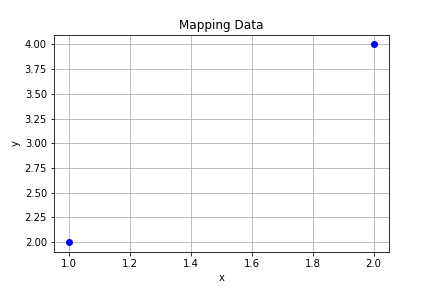
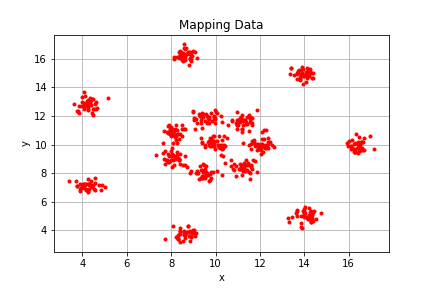
Second

diff --git a/SOM.py b/SOM.py
@@ -6,21 +6,116 @@ Created on Sun Apr 14 13:43:10 2019
 """
 
 import pandas as pd
-import matplotlib
 import matplotlib.pyplot as plt
 import numpy as np
+import math
+import random
 
-data = pd.read_csv("Dataset.csv", header=None)
+df = pd.read_csv("Dataset.csv", header=None)
+data = []
 
-# Data for plotting
-data1 = [1.2, 2.2 , 3.1, 3.3, 4.2]
+def getRandom(min, max):
+    rand = random.uniform(0, 1)
+    return (rand * (max-min)) + min
 
+for i in range(len(df)):
+    data.append({'x' : df[0][i], 'y': df[1][i], 'color': "red"})
+
+
+#Eucledian distance
+def eucledian(x, y):
+    return math.sqrt((x['x']-y['x'])**2 + (x['y']-y['y'])**2)
+
+#Learningrate
+lr = 0.1
+tLr = 2
+
+#neighborhood
+sigma = 2
+tSigma = 2
+
+#Neuron
+min_data_x = min(df[0])
+min_data_y = min(df[1])
+max_data_x = max(df[0])
+max_data_y = max(df[1])
+neuron = [
+    {'x': getRandom(min_data_x, max_data_x), 'y': getRandom(min_data_y, max_data_y), 'color': 'blue', 'status': 'fixed'}, 
+    {'x': getRandom(min_data_x, max_data_x), 'y': getRandom(min_data_y, max_data_y), 'color': 'black', 'status': 'fixed'},
+    {'x': getRandom(min_data_x, max_data_x), 'y': getRandom(min_data_y, max_data_y), 'color': 'green', 'status': 'fixed'},
+    {'x': getRandom(min_data_x, max_data_x), 'y': getRandom(min_data_y, max_data_y), 'color': 'yellow', 'status': 'fixed'},
+    {'x': getRandom(min_data_x, max_data_x), 'y': getRandom(min_data_y, max_data_y), 'color': 'gray', 'status': 'fixed'},
+    {'x': getRandom(min_data_x, max_data_x), 'y': getRandom(min_data_y, max_data_y), 'color': 'magenta', 'status': 'fixed'}       
+]
+
+# Plotdata awal
 fig, ax = plt.subplots()
-ax.plot([1,2],[2,4],"ro", color="blue")
+for i in data:
+    ax.plot(i['x'], i['y'], ".", color=i['color'])
+for i in neuron:
+    ax.plot(i['x'], i['y'], "s", color=i['color'])
 
-ax.set(xlabel='x', ylabel='y',
-       title='Mapping Data')
+ax.set(xlabel='x', ylabel='y', title='Mapping Data Awal')
 ax.grid()
+plt.axis([2,19,2,19])
+plt.show()
 
-fig.savefig("test.png")
+#
+iterasi = 5
+konvergen = 0.000001
+for t in range(iterasi):
+    #inisialisasi input secara random sebagai neighboor
+    rand = random.randint(1, len(data)-1)
+    x = data[rand]
+    
+    #mencari win neuron
+    win_neuron = neuron[0]
+    for a in neuron:
+        a['status'] = 'fixed'
+        if eucledian(x, a) < eucledian(x, win_neuron): win_neuron = a
+    
+    #mencari tetangga win neuron
+    for b in neuron:
+        if eucledian(b, win_neuron) < sigma:
+            b['status'] = 'neighborhood'
+    
+    #update weigh untuk set
+    for c in neuron:
+        if (c['status'] == 'neighborhood'):
+            s = eucledian(win_neuron, c)
+            phi = np.exp(-(s**2 / (2*sigma**2)))
+            dWeight = lr * phi * eucledian(x, c)
+            c['x'] += dWeight
+            c['y'] += dWeight
+            
+    #cek konvergen
+    if (dWeight < konvergen):
+        break
+    
+    #kalau tidak konvergen, update lr dan sigma
+    lr *= np.exp(-t/tLr)
+    tSigma *= np.exp(-t/tSigma)
+    
+#Menentukan cluster dataset
+cluster = []
+for d in data:
+    win_neuron = neuron[0]
+    for e in neuron:
+        if eucledian(d, e) < eucledian(d, win_neuron): win_neuron = e
+    d['color'] = win_neuron['color']
+    if (d['color'] not in cluster): cluster.append(d['color'])
+    
+
+print('cluster = ', len(cluster))
+
+#Plot data akhir
+fig, ax = plt.subplots()
+for i in data:
+    ax.plot(i['x'], i['y'], ".", color=i['color'])
+for i in neuron:
+    ax.plot(i['x'], i['y'], "s", color=i['color'])
+
+ax.set(xlabel='x', ylabel='y', title='Mapping Data Akhir')
+ax.grid()
+plt.axis([2,19,2,19])
 plt.show()
